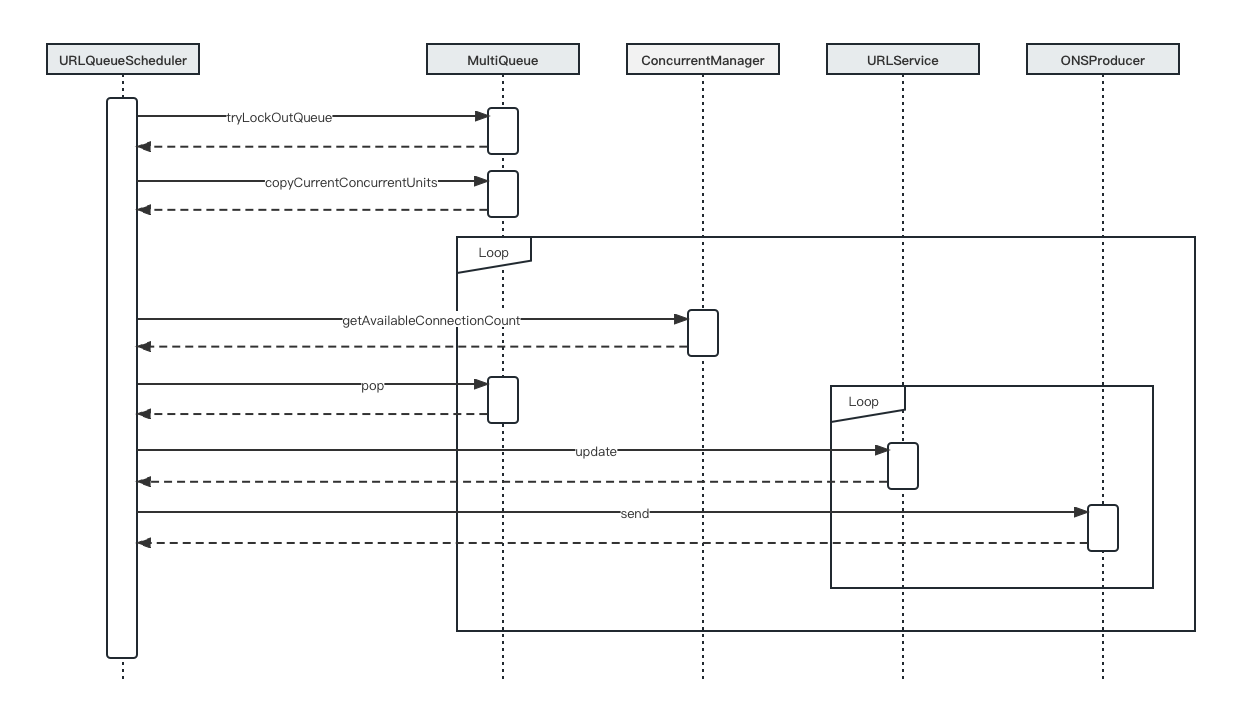
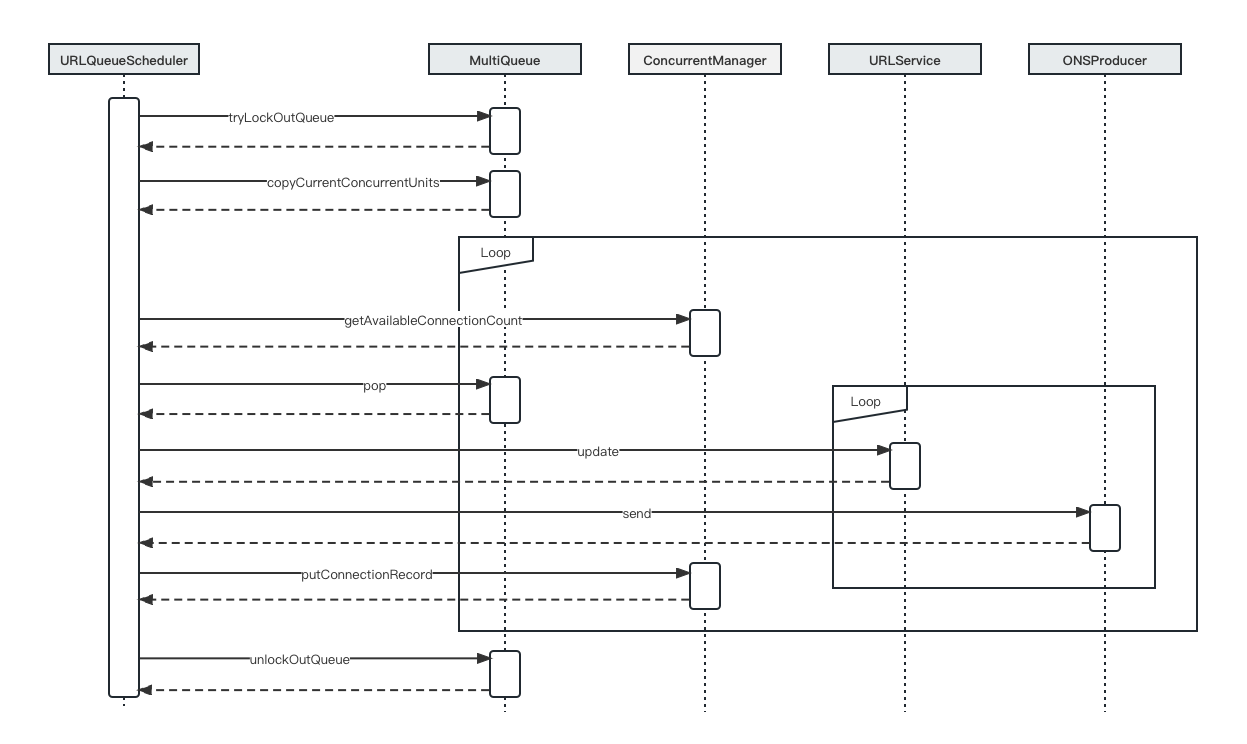
add introduction of URL schedule sequence control in README.md

diff --git a/README.md b/README.md
@@ -121,6 +121,14 @@
 
 ![url_schedule_time](https://github.com/frankcl/darwin/blob/main/images/darwin%E6%8A%93%E5%8F%96%E9%93%BE%E6%8E%A5%E8%B0%83%E5%BA%A6%E6%97%B6%E5%BA%8F%E5%9B%BE.png)
 
+1. 获取MultiQueue出队锁，如果失败则放弃本轮调度，否则转第2步
+2. 从MultiQueue获取当前并发控制单元列表，针对每个并发控制单元进行以下处理
+   1. 获取并发控制单元当前可用连接数，如果可用连接数小于等于0，则放弃并发控制单元本轮调度，否则进行下一步
+   2. 根据可用连接数从MultiQueue中弹出抓取URL，并更新URL状态为抓取中
+   3. 将URL信息发送到消息队列，等待下游爬虫抓取
+   4. 并发单元链接TTL记录中添加抓取URL信息
+3. 释放MultiQueue出队锁
+
 * URL抓取时序
 
 ![url_fetch_time](https://github.com/frankcl/darwin/blob/main/images/darwin%E9%93%BE%E6%8E%A5%E6%8A%93%E5%8F%96%E6%97%B6%E5%BA%8F%E5%9B%BE.png)
